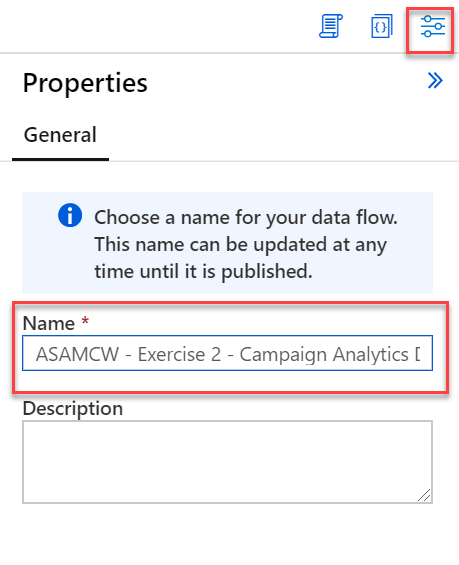
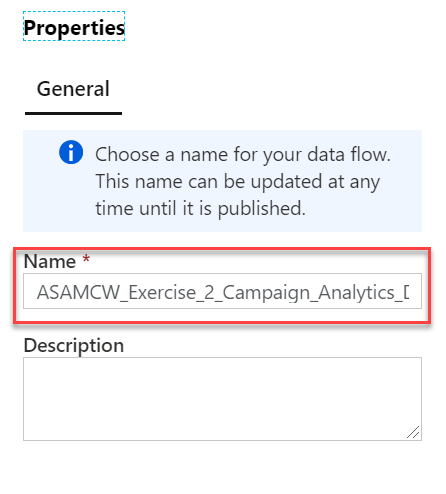
updated dataflow naming/screenshots/new UI flow, updated deployment requirements.txt (Pip freeze for Spark pool), fixed typos, added some clarifications as well

diff --git a/Hands-on lab/HOL step-by step - Azure Synapse Analytics end-to-end solution.md b/Hands-on lab/HOL step-by step - Azure Synapse Analytics end-to-end solution.md
@@ -218,6 +218,8 @@ The data that we will be retrieving to populate the sale table is currently stor
 
 4. In the **New dataset** blade, with the **All** tab selected, choose the **Azure Data Lake Storage Gen2** item. Select **Continue**.
 
+    ![The New dataset blade is displayed with the All tab selected, the Azure Data Lake Storage Gen2 item is selected from the list.](media/new_dataset_type_selection.png)
+
 5. In the **Select format** screen, choose the **Parquet** item. Select **Continue**.
 
     ![In the Select format screen, the Parquet item is highlighted.](media/dataset_format_parquet.png)
@@ -257,16 +259,22 @@ The data that we will be retrieving to populate the sale table is currently stor
 
     ![From the left menu, the Develop item is selected. From the Develop blade the + button is expanded with the Data flow item highlighted.](media/develop_newdataflow_menu.png)
 
-12. In the side pane on the **General** tab, name the data flow by entering **ASAMCW - Exercise 2 - 2018 and 2019 Sales** in the **Name** field.
+12. In the side pane on the **General** tab, name the data flow by entering **ASAMCW_Exercise_2_2018_and_2019_Sales** in the **Name** field.
 
-    ![The General tab is displayed with ASAMCW - Exercise 2 - 2018 and 2019 Sales entered as the name of the data flow.](media/dataflow_generaltab_name.png)
+    ![The General tab is displayed with ASAMCW_Exercise_2_2018_and_2019_Sales entered as the name of the data flow.](media/dataflow_generaltab_name.png)
 
 13. In the data flow designer window, select the **Add Source** box.
 
     ![The Add source box is highlighted in the data flow designer window.](media/dataflow_addsourcebox.png)
 
-14. With the added source selected in the designer, in the lower pane with the **Source settings** tab selected, set the **Output stream name** to **salesdata** and for the **Dataset**, select **asamcw_sales_parquet**.
+14. With the added source selected in the designer, in the lower pane with the **Source settings** tab selected, set the following field values:
   
+    | Field | Value |
+    |-------|-------|
+    | Output stream name  | Enter **salesdata** |
+    | Source type | Select **Dataset**. |
+    | Dataset | Select **asamcw_sales_parquet**. |
+
     ![The Source settings tab is selected displaying the Output stream name set to salesdata and the selected dataset being asamcw_sales_parquet.](media/dataflow_source_sourcesettings.png)
 
 15. Select the **Source options** tab, and add the following as **Wildcard paths**, this will ensure that we only pull data from the parquet files for the sales years of 2018 and 2019:
@@ -289,18 +297,19 @@ The data that we will be retrieving to populate the sale table is currently stor
     |-------|-------|
     | Output stream name  | Enter **sale** |
     | Incoming stream | Select **salesdata**. |
+    | Sink type | Select **Dataset**. |
     | Dataset | Select **asamcw_sale_asa**. |
 
     ![The Sink tab is displayed with the form populated with the values from the preceding table.](media/dataflow_sink_sinktab.png)
 
-19. Select the **Mapping** tab and toggle the **Auto mapping** setting to the off position. You will need to add the following input to output column mappings. Add a mapping by selecting the **+ Add mapping** button.
+19. Select the **Mapping** tab and toggle the **Auto mapping** setting to the off position. You will need to select Input columns for the following:
   
     | Input column | Output column |
     |-------|-------|
+    | Quantity | Quantity |
     | TransactionDate  | TransactionDateId |
     | Hour | Hour |
     | Minute | Minute |
-    | Quantity | Quantity |
 
     ![The Mapping tab is selected with the Auto mapping toggle set to the off position. The + Add mapping button is highlighted along with the mapping entries specified in the preceding table.](media/dataflow_sink_mapping.png)
 
@@ -310,19 +319,21 @@ The data that we will be retrieving to populate the sale table is currently stor
 
 21. We can now use this data flow as an activity in a pipeline. Create a new pipeline by selecting **Orchestrate** from the left menu, and in the **Orchestrate** blade, expand the **+** button and select **Pipeline**.
 
-22. Select the **Properties** button from the right side of the designer toolbar. On the **Properties** blade, Enter **ASAMCW - Exercise 2 - Copy Sale Data** as the Name of the pipeline.
+22. On the **Properties** blade, Enter **ASAMCW - Exercise 2 - Copy Sale Data** as the Name of the pipeline.
 
 23. From the **Activities** menu, expand the **Move & transform** section and drag an instance of **Data flow** to the design surface of the pipeline.
   
     ![The Activities menu of the pipeline is displayed with the Move and transform section expanded. An arrow indicating a drag operation shows adding a Data flow activity to the design surface of the pipeline.](media/pipeline_sales_dataflowactivitymenu.png)
 
-24. With the newly added data flow activity selected in the designer, in the side pane with the **General** tab selected, Name the data flow **ASAMCW - Exercise 2 - 2018 and 2019 Sales**.
+24. In the **Adding data flow** blade, ensure **Use existing data flow** is selected, and choose **ASAMCW_Exercise_2_2018_and_2019_Sales** from the select list and select **Finish**.
+
+    ![The Adding data flow blade is displayed populated with the appropriate values.](media/pipeline_dataflowactivity_addingblade.png)
 
 25. Select the **Settings** tab and set the form fields to the following values:
 
     | Field | Value |
     |-------|-------|
-    | Data flow  | Select **ASAMCW - Exercise 2 - 2018 and 2019 Sales** |
+    | Data flow  | Select **ASAMCW_Exercise_2_2018_and_2019_Sales** |
     | Staging linked service | Select `asadatalake{SUFFIX}`. |
     | Staging storage folder - Container | Enter **staging** |
     | Staging storage folder - Folder | Enter **mcwsales** |
@@ -541,7 +552,7 @@ Similar to the customer information table, we will also be populating the campai
 
 2. On the **New dataset** blade, with the **All** tab selected, choose the **Azure Data Lake Storage Gen2** item. Select **Continue**.  
   
-    ![On the New dataset blade, the All tab is selected and the Azure Blob Storage item is highlighted.](media/newdataset_azureblobstorage.png)
+    ![The New dataset blade is displayed with the All tab selected, the Azure Data Lake Storage Gen2 item is selected from the list.](media/new_dataset_type_selection.png)
 
 3. On the **Select format** blade, select **CSV Delimited Text**. Select **Continue**.
 
@@ -586,9 +597,9 @@ Similar to the customer information table, we will also be populating the campai
 
     ![From the left menu, the Develop item is selected. From the Develop blade the + button is expanded with the Data flow item highlighted.](media/develop_newdataflow_menu.png)
 
-10. Select the Properties icon on the right side of the dataflow designer toolbar. In the **Properties** blade name the data flow by entering **ASAMCW - Exercise 2 - Campaign Analytics Data** in the **Name** field.
+10. Select the Properties icon on the right side of the dataflow designer toolbar. In the **Properties** blade name the data flow by entering **ASAMCW_Exercise_2_Campaign_Analytics_Data** in the **Name** field.
 
-    ![The Properties blade is displayed with ASAMCW - Exercise 2 - Campaign Analytics Data entered as the name of the data flow.](media/dataflow_campaignanalytics_propertiesblade.png)
+    ![The Properties blade is displayed with ASAMCW_Exercise_2_Campaign_Analytics_Data entered as the name of the data flow.](media/dataflow_campaignanalytics_propertiesblade.png)
 
 11. In the data flow designer window, select the **Add Source** box.
 
@@ -599,6 +610,7 @@ Similar to the customer information table, we will also be populating the campai
     | Field | Value |
     |-------|-------|
     | Output stream name  | Enter **campaignanlyticscsv** |
+    | Source type | Select **Dataset** |
     | Dataset | Select **asamcw_campaignanalytics_csv**. |
     | Skip line count | Enter **1** |  
 
@@ -642,7 +654,7 @@ Similar to the customer information table, we will also be populating the campai
 
     | Field | Value |
     |-------|-------|
-    | Output stream name  | Enter **mapcampaignanlytics** |
+    | Output stream name  | Enter **mapcampaignanalytics** |
 
     For **Input Columns**, under the **Name as** column, enter the following list values in order:
       - Region
@@ -720,7 +732,7 @@ Similar to the customer information table, we will also be populating the campai
   
     ![The Activities menu of the pipeline is displayed with the Move and transform section expanded. An arrow indicating a drag operation shows adding a Data flow activity to the design surface of the pipeline.](media/pipeline_sales_dataflowactivitymenu.png)
 
-30. In the **Adding data flow** blade, select the data flow **ASAMCW - Exercise 2 - Campaign Analytics Data**, then **Finish**. Select the Mapping Data Flow activity on the design surface.
+30. In the **Adding data flow** blade, select the data flow **ASAMCW_Exercise_2_Campaign_Analytics_Data**, then **Finish**. Select the Mapping Data Flow activity on the design surface.
 
 31. In the bottom pane, select the **Settings** tab and set the form fields to the following values:
 
@@ -1258,7 +1270,7 @@ Please note that each of these tasks will be addressed through several cells in 
 
 In this task, you will explore the model registration process in Azure Synapse Analytics that enables trained model for use from T-SQL. This task picks up where you left off, with the ONNX model being made available in Azure Storage.
 
-1. One step that is not shown by the notebook is an offline step that converts the ONNX model to hexadecimal. The resulting hex encoded model is also upload to Azure Storage. This conversion is currently performed with [this PowerShell script](https://github.com/solliancenet/azure-synapse-analytics-workshop-400/raw/master/artifacts/day-03/lab-06-machine-learning/convert-to-hex.ps1), but could be automated using any scripting platform.
+1. One step that is not shown by the notebook is an offline step that converts the ONNX model to hexadecimal. The resulting hex encoded model is also upload to Azure Storage. This conversion is currently performed with [this PowerShell script](https://github.com/microsoft/MCW-Azure-Synapse-Analytics-end-to-end-solution/raw/master/Hands-on lab/artifacts/convert-to-hex.ps1), but could be automated using any scripting platform.
 
 2. From the left menu, select **Data**.
 
@@ -1339,7 +1351,7 @@ In this task, you will explore the model registration process in Azure Synapse A
       GO
     ```
 
-6. Import the persisted ONNX model in hexadecimal format into the main models table (to be later used with the `PREDICT` function):
+6. Import the persisted ONNX model in hexadecimal format into the main models table (to be later used with the `PREDICT` function) by executing the following query on **SQLPool01**:
 
     ```sql
     -- Register the model by inserting it into the table.
